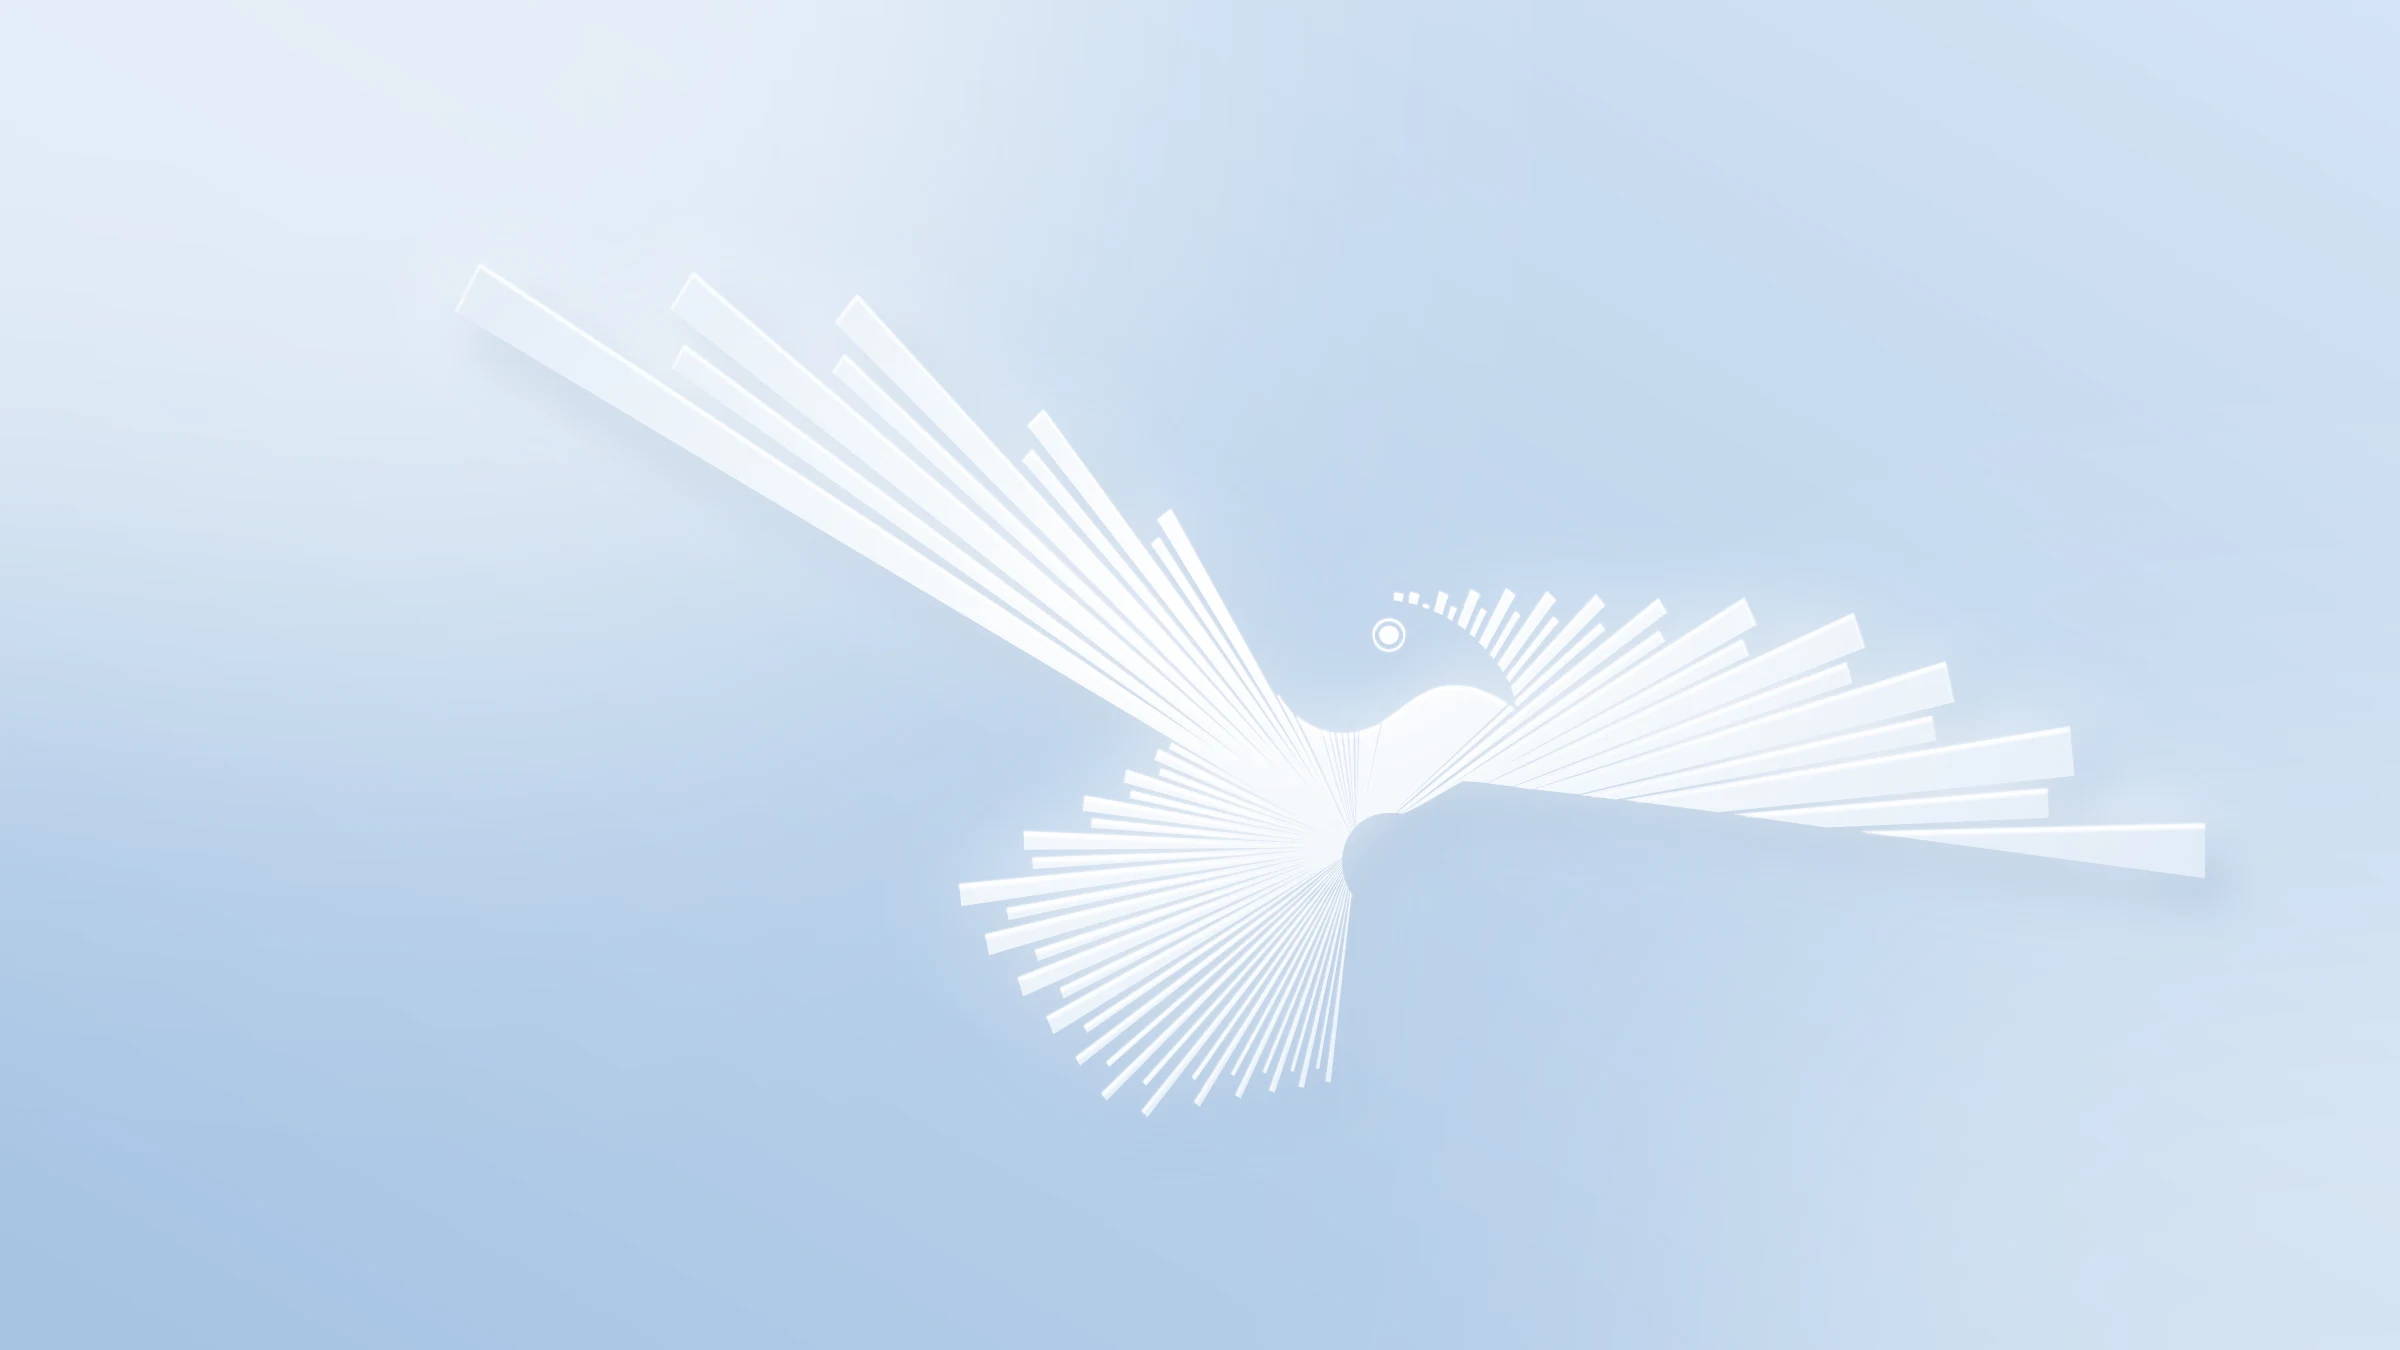
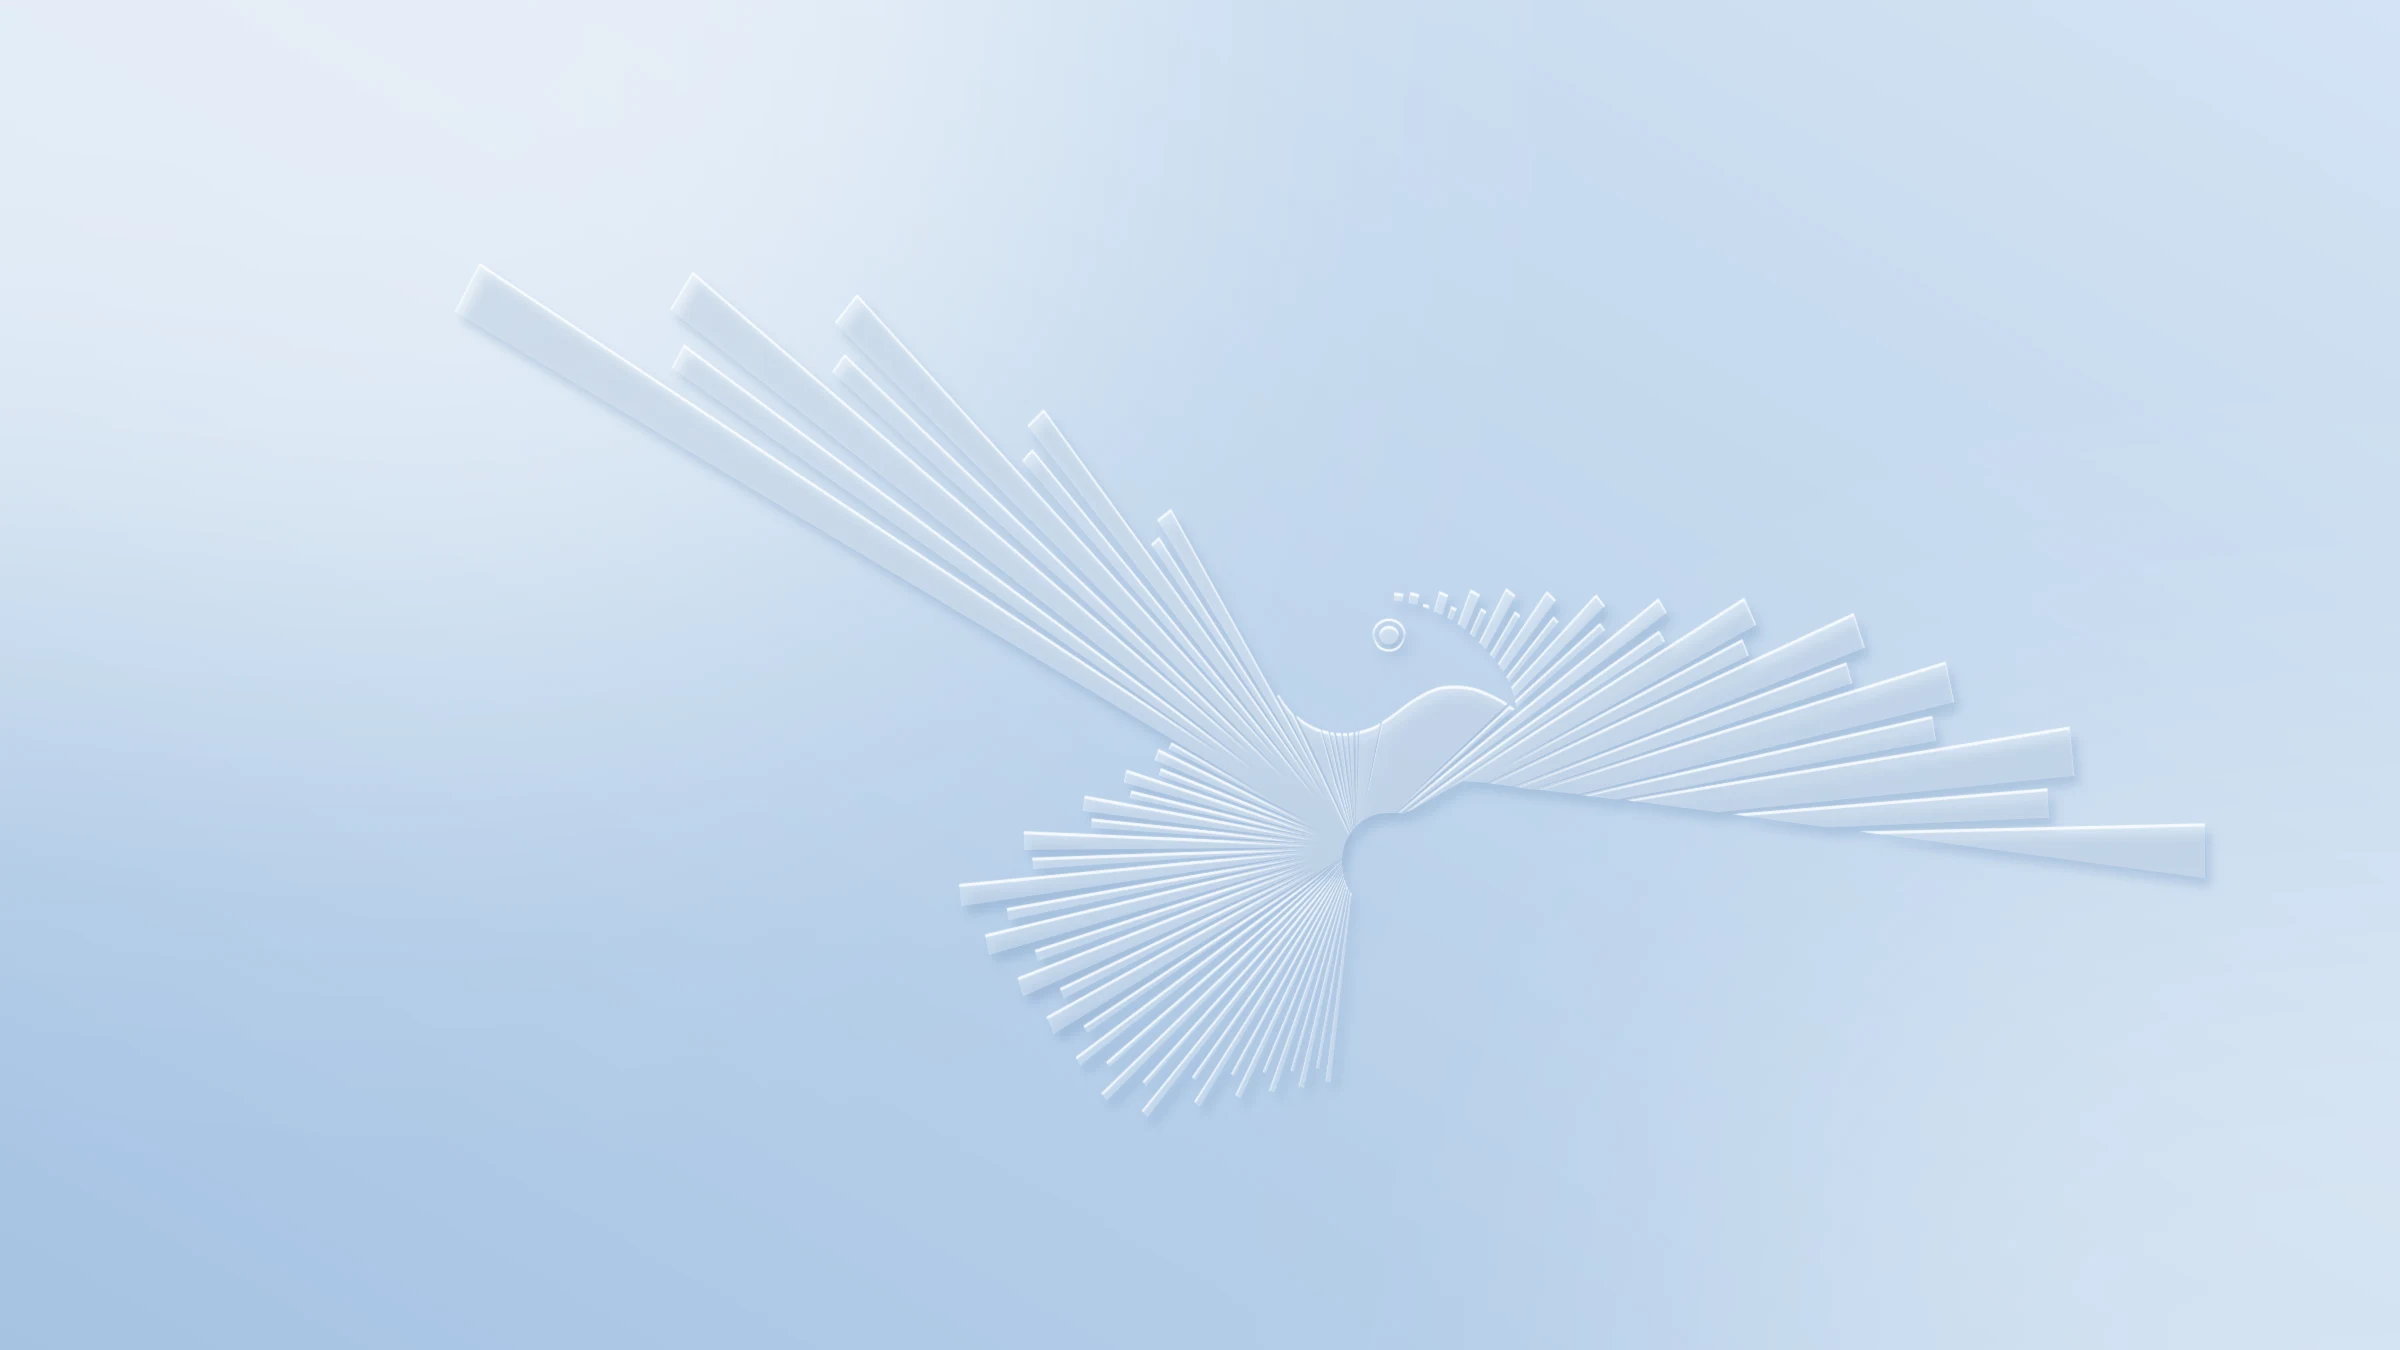
Painel de normas: passaro de fundo nitido e no tom do fundo; vidro com 3 px de desfoque; oceano do globo mais transparente

Changed region(s): [[0.1875, 0.2178, 0.9375, 0.8089]]

diff --git a/js/painel-normas.js b/js/painel-normas.js
@@ -326,11 +326,11 @@
       var muta = d3.geoProjectionMutator(function (t) { return function (x, y) { var a = d3.geoOrthographicRaw(x, y), b = d3.geoNaturalEarth1Raw(x, y); return [a[0] + t * (b[0] - a[0]), a[1] + t * (b[1] - a[1])]; }; });
       var proj = muta(0).translate([W / 2, H / 2]).precision(.5), geo = d3.geoPath(proj);
       var svg = d3.select(box).insert('svg', ':first-child').attr('viewBox', '0 0 ' + W + ' ' + H).attr('role', 'img').attr('aria-label', 'Globo de certificados por país');
-      /* 27/10: oceano de vidro, no mesmo tom da placa onde o globo está (só um brilho claro no alto à esquerda) */
+      /* 27/10: oceano de vidro, no mesmo tom da placa onde o globo está (só um brilho claro no alto à esquerda); mais transparente desde o 2º ajuste */
       var brilho = svg.append('defs').append('radialGradient').attr('id', 'mp-vidro').attr('cx', '32%').attr('cy', '26%').attr('r', '78%');
-      brilho.append('stop').attr('offset', '0').attr('stop-color', '#fff').attr('stop-opacity', .42);
-      brilho.append('stop').attr('offset', '.55').attr('stop-color', '#fff').attr('stop-opacity', .1);
-      brilho.append('stop').attr('offset', '1').attr('stop-color', '#14304C').attr('stop-opacity', .06);
+      brilho.append('stop').attr('offset', '0').attr('stop-color', '#fff').attr('stop-opacity', .22);
+      brilho.append('stop').attr('offset', '.55').attr('stop-color', '#fff').attr('stop-opacity', .04);
+      brilho.append('stop').attr('offset', '1').attr('stop-color', '#14304C').attr('stop-opacity', .05);
       var esfera = svg.append('path').attr('class', 'esfera').attr('fill', 'url(#mp-vidro)').attr('stroke', 'rgba(255,255,255,.9)').attr('stroke-width', 1.2);
       var grade = svg.append('path').datum(d3.geoGraticule10()).attr('class', 'grade');
       paths = svg.append('g').selectAll('path').data(MUNDO.features.filter(function (f) { return f.id !== '010'; })).enter().append('path').attr('class', 'pais');

diff --git a/painel-normas.html b/painel-normas.html
@@ -23,7 +23,7 @@
 <link rel="preconnect" href="https://fonts.googleapis.com">
 <link href="https://fonts.googleapis.com/css2?family=IBM+Plex+Sans+Condensed:wght@300;400;500;600;700&family=IBM+Plex+Mono:wght@300;400;500;600;700&family=IBM+Plex+Serif:wght@300;400;500;600;700&display=swap" rel="stylesheet">
 <link rel="stylesheet" href="css/style.css?v=115">
-<link rel="stylesheet" href="css/painel-normas.css?v=27">
+<link rel="stylesheet" href="css/painel-normas.css?v=28">
 <meta name="description" content="Andamento das normas ISO de sistemas de gestão, sustentabilidade e segurança: estágio, comitê, revisão sistemática e certificados por país. Fonte: ISO Open Data e ISO Survey.">
 <script>document.documentElement.classList.add('js');window.addEventListener('load',function(){setTimeout(function(){if(!document.querySelector('.in-view')){var n=document.querySelectorAll('.rot-sec,.sec,.content>*');for(var i=0;i<n.length;i++){n[i].classList.add('in-view');}}},1200);});</script>
 </head>
@@ -268,6 +268,6 @@
 <script src="js/banner.js?v=2"></script>
 <script src="https://cdnjs.cloudflare.com/ajax/libs/d3/7.9.0/d3.min.js" defer></script>
 <script src="https://cdnjs.cloudflare.com/ajax/libs/topojson/3.0.2/topojson.min.js" defer></script>
-<script src="js/painel-normas.js?v=15" defer></script>
+<script src="js/painel-normas.js?v=16" defer></script>
 <script src="js/gaveta.js?v=14" defer></script>
 </body></html>

diff --git a/css/painel-normas.css b/css/painel-normas.css
@@ -391,5 +391,6 @@
    claro»: fundo img/fundo-painel-passaro.webp (_ferramentas/fundo_passaro.py). O mosaico (fundo-painel-mosaico.webp) fica guardado:
    para voltar a ele, trocar a url abaixo */
 @media (min-width:981px){
-  .pn{--vidro:rgba(255,255,255,.42);background:url(../img/fundo-painel-passaro.webp) center/cover no-repeat}   /* vidro mais transparente para o pássaro aparecer através das placas */
+  .pn{--vidro:rgba(255,255,255,.42);background:url(../img/fundo-painel-passaro.webp) center/cover no-repeat}
+  .pn-cab,.pn-lado,.pn-main{-webkit-backdrop-filter:blur(3px) saturate(1.25);backdrop-filter:blur(3px) saturate(1.25)}   /* pássaro nítido através do vidro */   /* vidro mais transparente para o pássaro aparecer através das placas */
 }

diff --git a/_ferramentas/fundo_passaro.py b/_ferramentas/fundo_passaro.py
@@ -35,19 +35,16 @@ def main():
 
     m = mascara(); mw, mh = m.size; x0, y0 = CENTRO[0] - mw // 2, CENTRO[1] - mh // 2
     M = Image.new('L', (W, H), 0); M.paste(m, (x0, y0))
-    # sombra suave embaixo e à direita (dá volume, como a sombra do globo)
-    sombra = ImageChops.offset(M, 18, 26).filter(ImageFilter.GaussianBlur(26)).point(lambda v: v * .5)
+    # 27/10, 2º pedido («mais nítido, mais parecido com a cor de fundo»): sem halo; o pássaro é o próprio fundo clareado
+    # (35% de branco no alto à esquerda, 12% embaixo à direita), recortado por sombra curta e fio de luz
+    sombra = ImageChops.offset(M, 6, 9).filter(ImageFilter.GaussianBlur(5)).point(lambda v: v * .32)
     fundo = Image.composite(Image.new('RGB', (W, H), hx('#6E93BC')), fundo, sombra)
-    # brilho em volta (o pássaro «aceso»)
-    halo = M.filter(ImageFilter.GaussianBlur(40)).point(lambda v: min(255, v * .9))
-    fundo = Image.composite(Image.new('RGB', (W, H), (255, 255, 255)), fundo, halo)
-    # corpo: luz radial vindo do alto à esquerda, branco → azul muito claro
     corpo = Image.radial_gradient('L').resize((int(mw * 1.6), int(mh * 1.9)))
     cg = Image.new('L', (W, H), 255); cg.paste(corpo, (x0 - int(mw * .35), y0 - int(mh * .55)))
-    pele = Image.composite(Image.new('RGB', (W, H), hx('#C8DBEF')), Image.new('RGB', (W, H), (255, 255, 255)), cg)
-    fundo = Image.composite(pele, fundo, M)
-    # fio de luz na borda de cima (aresta iluminada)
-    aresta = ImageChops.subtract(M, ImageChops.offset(M, 0, 5)).filter(ImageFilter.GaussianBlur(1.2))
+    forca = cg.point(lambda v: int(255 * (.35 - .23 * v / 255)))
+    claro = Image.composite(Image.new('RGB', (W, H), (255, 255, 255)), fundo, forca)
+    fundo = Image.composite(claro, fundo, M)
+    aresta = ImageChops.subtract(M, ImageChops.offset(M, 0, 3)).filter(ImageFilter.GaussianBlur(.6)).point(lambda v: v * .85)
     fundo = Image.composite(Image.new('RGB', (W, H), (255, 255, 255)), fundo, aresta)
     saida = RAIZ / 'img' / 'fundo-painel-passaro.webp'
     fundo.save(saida, quality=88); print(saida.name, saida.stat().st_size // 1024, 'KB')

diff --git a/CLAUDE.md b/CLAUDE.md
@@ -97,7 +97,7 @@ Regra da casa: o que o Leandro corrige numa página vira padrão do site inteiro
 - **Globo de vidro (27/10/2026, «mais efeito de vidro… a mesma cor do globo fosse a mesma cor do fundo»):** no computador a caixa branca do mapa sai (`.mp-mapa` transparente, sem borda e sem sombra) e o globo fica direto no vidro da placa. O oceano é o gradiente `#mp-vidro` (branco 42% no alto à esquerda, 10% no meio, tinta 6% na borda), contorno branco, grade branca e sombra suave embaixo. Vale para o globo e para o mapa aberto.
 - **Deslize na navegação entre botões (27/10/2026, «a navegação entre botões deve ser sempre com aquele efeito de deslise»):** nas abas `.pn-abas` e nas normas do mapa `.mp-sel`, a placa escura do escolhido é um `span.desliza` (posto pelo JS `desliza()`), que desliza do botão anterior para o novo em .38 s; o botão escolhido fica transparente com texto creme. Na fileira que rola, o escolhido é trazido para a vista. Vale para toda fileira de botões de navegação nova. Globo: para de girar só com o mouse SOBRE o globo (teste de raio, não a área toda) e gira mais rápido (.009 grau/ms desde o 2º pedido de 27/10, «poderia girar um pouco mais rápido?»).
 - **Fundo em mosaico (27/10/2026, referência mozayk.design; «figuras muito mais claras, muito mais próximas da cor do fundo… mais figuras, com outras formas»):** no computador o fundo do painel é `img/fundo-painel-mosaico.webp`, gerado por `_ferramentas/fundo_mosaico.py` (semente fixa): base `#DDE8F4`, células de 150 px, 55% delas com uma figura (quadrado, triângulo, losango, círculo, quarto e meio círculo, faixa, quadrado menor) em seis tons a poucos pontos do fundo (`#E9F0F8 #F3F7FB #FFFFFF #D2E0F0 #C9DAEE #E4ECF6`), grade branca fina e cruzes «+» azuis a 35%. Recusados no caminho: losangos coloridos, mosaico com blocos desfocados e tinta (poluído), fundo escuro. O vidro das placas ficou com desfoque de 7 px e 58% de branco, para as figuras aparecerem através delas. O `fundo-painel-vidro.webp` antigo fica no repositório sem uso.
-- **Fundo com o pássaro (27/10/2026, «colocar o pássaro da Ideal Metrics de fundo, mais claro, iluminado como o globo… o resto do fundo com um azul mais claro»):** VIGENTE no computador: `img/fundo-painel-passaro.webp`, gerado por `_ferramentas/fundo_passaro.py` a partir de `img/passaro-ideal-m.svg` (só a silhueta, nunca redesenhada): degradê diagonal `#D3E3F4` → `#A6C3E3`, pássaro branco com luz radial do alto à esquerda (até `#C8DBEF`), halo branco, sombra `#6E93BC` embaixo à direita e fio de luz na borda de cima. Vidro das placas a 42% de branco e 7 px de desfoque. Guardados para voltar: mosaico claro (`fundo-painel-mosaico.webp`, commit `baab338`) e manchas (`fundo-painel-vidro.webp`); trocar a url no último bloco do CSS.
+- **Fundo com o pássaro (27/10/2026, «colocar o pássaro da Ideal Metrics de fundo, mais claro, iluminado como o globo… o resto do fundo com um azul mais claro»):** VIGENTE no computador: `img/fundo-painel-passaro.webp`, gerado por `_ferramentas/fundo_passaro.py` a partir de `img/passaro-ideal-m.svg` (só a silhueta, nunca redesenhada): degradê diagonal `#D3E3F4` → `#A6C3E3`, pássaro branco com luz radial do alto à esquerda (até `#C8DBEF`), halo branco, sombra `#6E93BC` embaixo à direita e fio de luz na borda de cima. Vidro das placas a 42% de branco e 7 px de desfoque. 2º ajuste no mesmo dia («mais nítido, mais parecido com a cor de fundo, globo mais transparente na área marítima»): pássaro sem halo, feito do próprio fundo clareado (35% de branco no alto à esquerda, 12% embaixo), sombra curta (6/9 px, desfoque 5) e fio de luz de 3 px; desfoque do vidro em 3 px; oceano do globo com brilho de 22% (antes 42%) e 4% no meio. Guardados para voltar: mosaico claro (`fundo-painel-mosaico.webp`, commit `baab338`) e manchas (`fundo-painel-vidro.webp`); trocar a url no último bloco do CSS.
 - **Atualização semanal:** a rotina agendada «Ballots ISO/ABNT» (segunda, 9h) roda `python _ferramentas/painel_normas.py` (sem `--cache`) e commita os dois JSON de `dados/`. Push continua só quando o Leandro mandar.
 - Menu: item «Painel de normas ISO» na coluna Estudos e pesquisa aplicada (`blocos.py`, ícone `painel`). Páginas de serviço ligadas às normas em `PAGINA` no gerador; a ficha da norma mostra o link «Serviço da Ideal Metrics nesta norma» quando existe.
 
